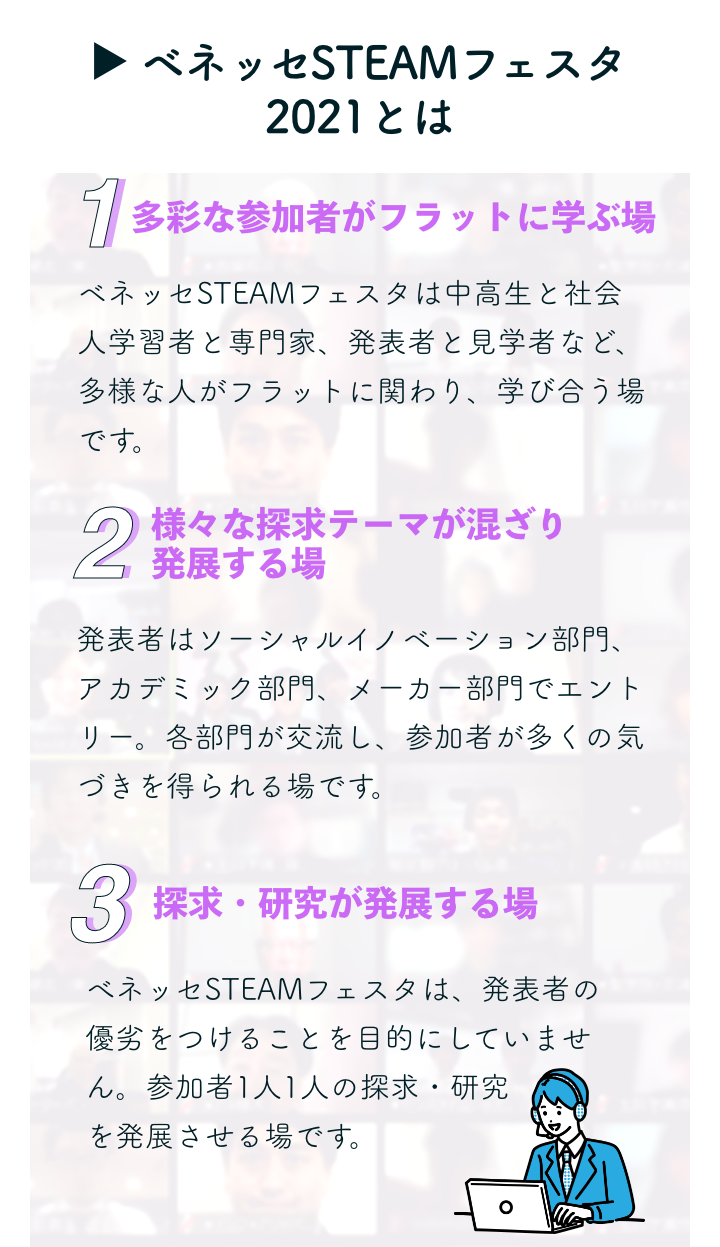
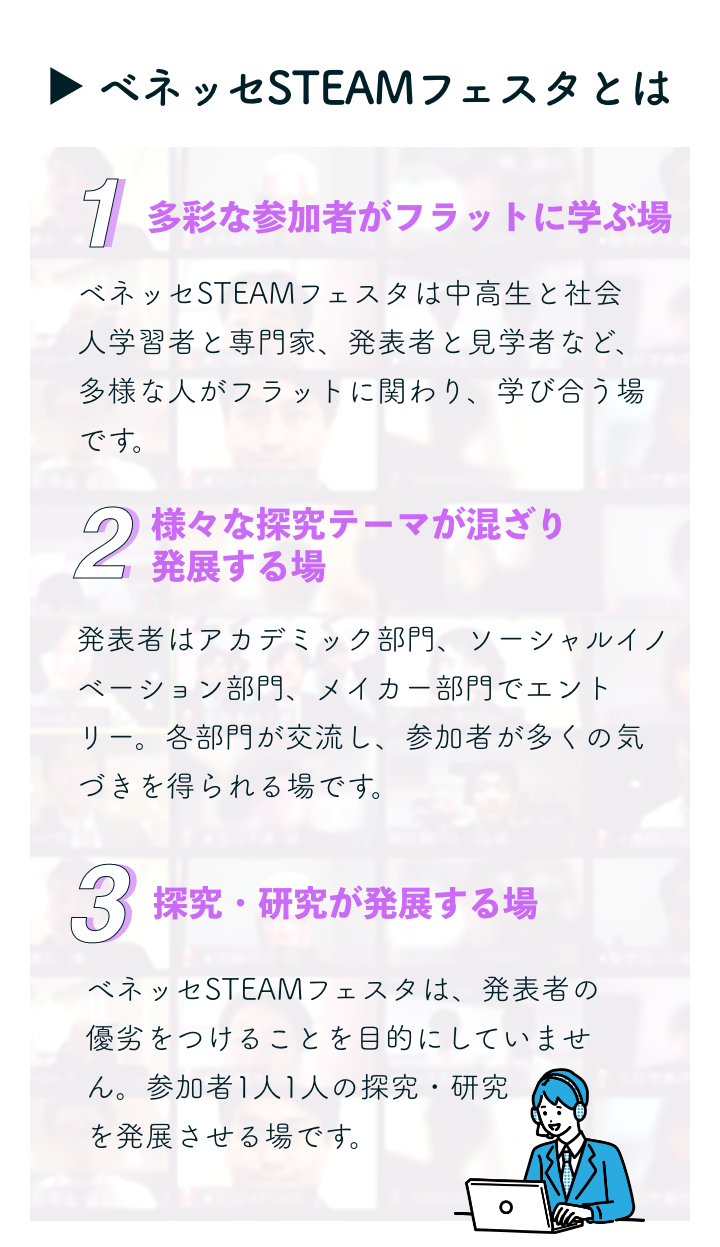
1280 720px

diff --git a/src/1280px/tab01.html b/src/1280px/tab01.html
@@ -39,33 +39,31 @@
     <!-- Scrolle Area -->
     <div class="scrollArea">
         <img src="images/01_top/pc_top_event.png">
-        <div cclass="back">
+
+        <div class="topback">
             <img src="images/01_top/pc_top_background.png">
             <div class="top">
+                <img class="toptitle" src="images/01_top/pc_top_headline.png">
 
-                <div class="toptitle">
-                    <img src="images/01_top/pc_top_headline.png">
-                </div>
-
-                <h2>アカデミック部門</h2>
-                <img src="images/01_top/pc_wordcloud_academic.png">
-                <div class="topbutton">
+                <h2 class="topacademic">アカデミック部門</h2>
+                <img class="topacademicimg" src="images/01_top/pc_wordcloud_academic.png">
+                <div class="topacademicbutton">
                     <button type="submit"
                         onclick="location.href='https://drive.google.com/drive/folders/1NVusONRclVgQ280dVib8Vs2LgcMkOYYw?usp=sharing'">
                         <img src="images/01_top/pc_top_button_academic.png"></button>
                 </div>
 
-                <h2>ソーシャルイノベーション部門</h2>
-                <img src="images/01_top/pc_wordcloud_social_inovation.png">
-                <div class="topbutton">
+                <h2 class="topsocial">ソーシャルイノベーション部門</h2>
+                <img class="topsocialimg" src="images/01_top/pc_wordcloud_social_inovation.png">
+                <div class="topsocialbutton">
                     <button type="submit"
                         onclick="location.href='https://drive.google.com/drive/folders/1ghk7VDb2asRhOWJU9il3r6KiFtkj4rTW?usp=sharing'">
                         <img src="images/01_top/pc_top_button_social_inovertion.png"></button>
                 </div>
 
-                <h2>メイカー部門</h2>
-                <img src="images/01_top/pc_wordcloud_maker.png">
-                <div class="topbutton">
+                <h2 class="topmaker">メイカー部門</h2>
+                <img class="topmakerimg" src="images/01_top/pc_wordcloud_maker.png">
+                <div class="topmakerbutton">
                     <button type="submit"
                         onclick="location.href='https://drive.google.com/drive/folders/14IfioNXKvPzcVUq34tJh2fSJFxGnFQ2M?usp=sharing'">
                         <img src="images/01_top/pc_top_button_maker.png"></button>
@@ -83,6 +81,6 @@
             <span>|</span>
             <a href="http://www.benesse.co.jp/benesseinfo/">会社案内</a>
         </ul>
-        <img src="images/99_footer/pc_footer_copyright.png">
+        <small>Copyright ©Benesse Corporation. All rights reserved.</small>
     </footer>
 </body>

diff --git a/src/1280px/css/main.css b/src/1280px/css/main.css
@@ -33,8 +33,9 @@ button{
 	background: rgba(0,0,0,0);
 	display: inline-flex;
 	opacity: 1;
-	outline:  none;
-	cursor:pointer;
+	outline: none;
+	cursor: pointer;
+	vertical-align: middle;
 }
 
 /* ヘッダーのハイライト #BCE6F2 */
@@ -166,16 +167,9 @@ header{
 }
 
 /* tab01 */
-.top{
-    position: absolute;
-	width: 1280px;
-    top: 1391px;
-}
-
-.top h1{
-	font-size: 30px;
-	margin: 88px auto 72px 216px;
-	color: #06C1C1;
+.topback{
+	position: relative;
+	height: auto;
 }
 
 .top h2{
@@ -183,16 +177,78 @@ header{
 }
 
 .toptitle{
-	text-align: left;
+    position: absolute;
+	top: 88px;
+	left: 216px;
 }
 
-.toptitle{
-	margin: 88px auto 72px 216px;
+.topacademic{
+    position: absolute;
+	top: 208px;
+	left: 0;
+	right: 0;
+	margin: auto 0 auto 0;
 }
 
-.topbutton{
-	text-align: center;
-	margin: 0 auto 104px auto;
+.topacademicimg{
+	position: absolute;
+	top: 264px;
+	left: 216px;
+}
+
+.topacademicbutton{
+	position: absolute;
+	top: 795px;
+	left: 0;
+	right: 0;
+	margin: auto 0 auto 0;
+	font-size: 0;
+}
+
+.topsocial{
+	position: absolute;
+	top: 963px;
+	left: 0;
+	right: 0;
+	margin: auto 0 auto 0;
+}
+
+.topsocialimg{
+	position: absolute;
+	top: 1033px;
+	left: 216px;
+}
+
+.topsocialbutton{
+	position: absolute;
+	top: 1550px;
+	left: 0;
+	right: 0;
+	margin: auto 0 auto 0;
+	font-size: 0;
+}
+
+.topmaker{
+	position: absolute;
+	top: 1718px;
+	left: 0;
+	right: 0;
+	margin: auto 0 auto 0;
+}
+
+.topmakerimg{
+	position: absolute;
+	top: 1788px;
+	left: 216px;
+}
+
+.topmakerbutton{
+	position: absolute;
+	top: 2305px;
+	left: 0;
+	right: 0;
+	margin: auto 0 auto 0;
+	font-size: 0;
 }
 
 /* tab02 */
@@ -457,10 +513,20 @@ footer > button{
 }
 
 footer ul{
-	margin: 16px 0 24px 0;
-	font-size: 15px;
+	margin: 16px 0 16px 0;
+	font-size: 16px;
+	color: #1C1C1C;
+}
+
+footer ul > a:link, a:visited, a:hover, a:active, a:focus{
+	color: #1C1C1C;
 }
 
 footer ul span{
 	margin: 0 10px 0 10px;
+}
+
+footer small{
+	font-size: 13px;
+	font-weight: 100;
 }

diff --git a/src/1280px/tab02.html b/src/1280px/tab02.html
@@ -116,6 +116,6 @@
             <span>|</span>
             <a href="http://www.benesse.co.jp/benesseinfo/">会社案内</a>
         </ul>
-        <img src="images/99_footer/pc_footer_copyright.png">
+        <small>Copyright ©Benesse Corporation. All rights reserved.</small>
     </footer>
 </body>

diff --git a/src/1280px/tab03.html b/src/1280px/tab03.html
@@ -212,6 +212,6 @@
             <span>|</span>
             <a href="http://www.benesse.co.jp/benesseinfo/">会社案内</a>
         </ul>
-        <img src="images/99_footer/pc_footer_copyright.png">
+        <small>Copyright ©Benesse Corporation. All rights reserved.</small>
     </footer>
 </body>

diff --git a/src/1280px/tab04.html b/src/1280px/tab04.html
@@ -59,6 +59,6 @@
             <span>|</span>
             <a href="http://www.benesse.co.jp/benesseinfo/">会社案内</a>
         </ul>
-        <img src="images/99_footer/pc_footer_copyright.png">
+        <small>Copyright ©Benesse Corporation. All rights reserved.</small>
     </footer>
 </body>
